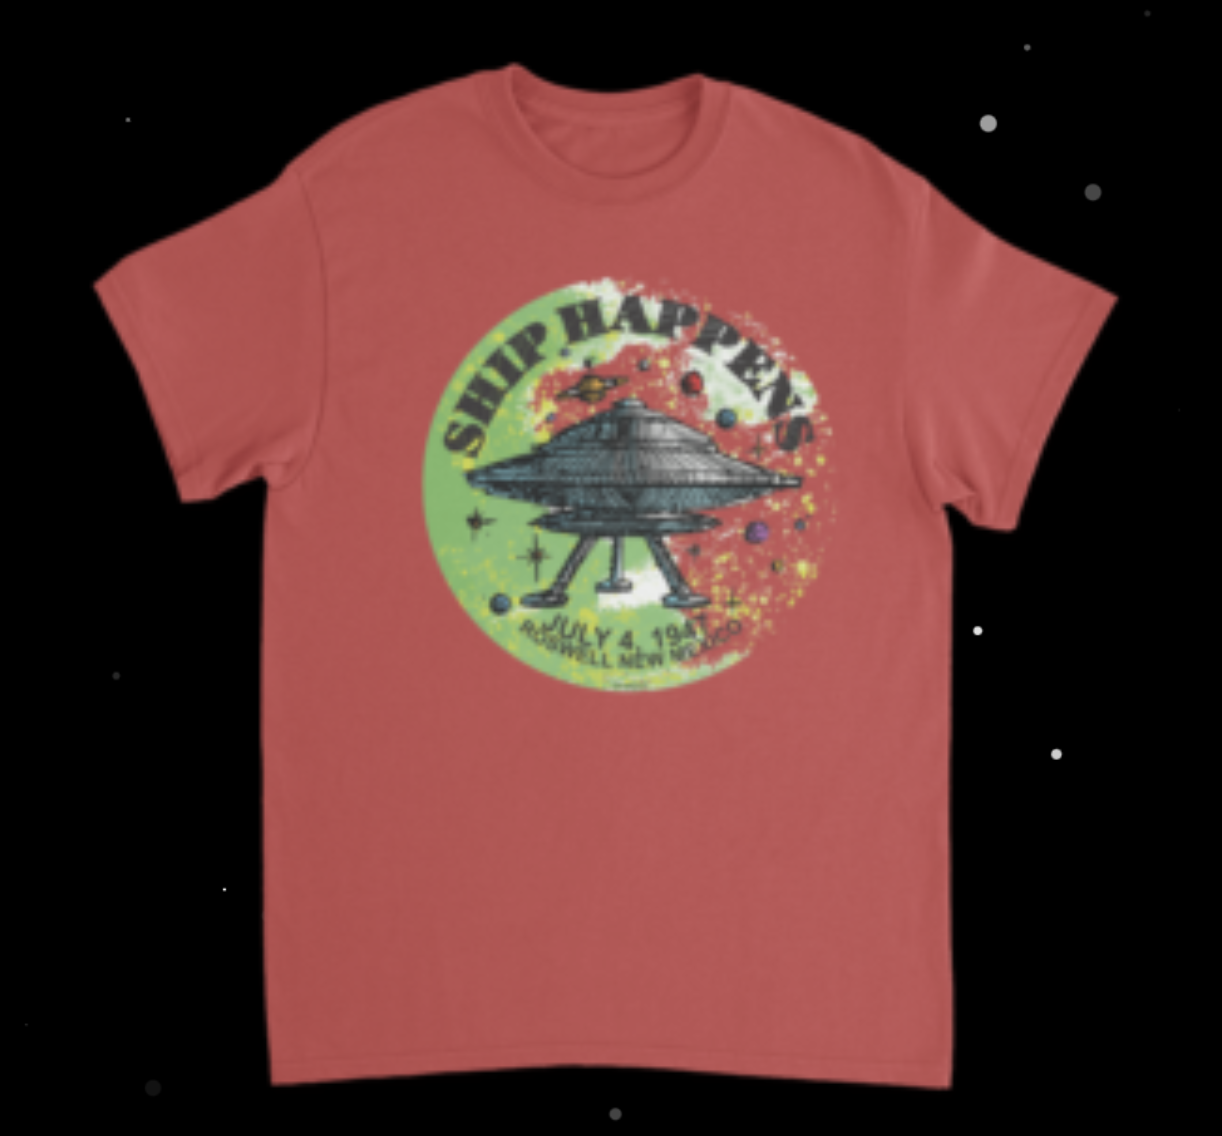
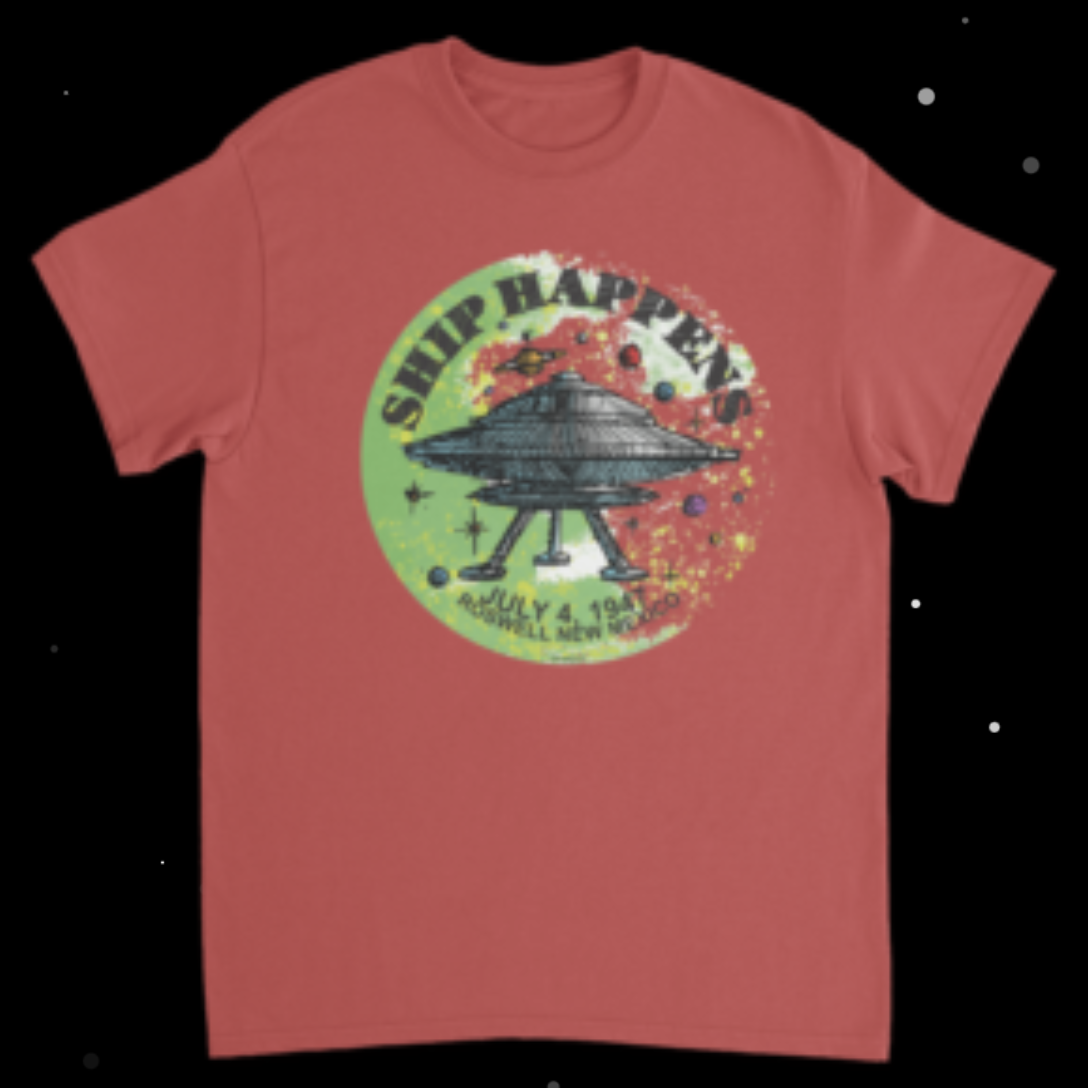
cropped the images to be same width and height

diff --git a/src/components/Card.jsx b/src/components/Card.jsx
@@ -6,7 +6,7 @@ function Card(props) {
     <Col className="col p-3 col-4" style={{ minWidth: "250px" }}>
       <div className="card p-3 text-center mb-5">
         <h2>{props.color} {props.design} {props.type}</h2>
-        <img src={props.imgURL} alt={props.type} style={{ width: '350px', height: '370px', margin: '0 auto' }} />
+        <img src={props.imgURL} alt={props.type} style={{ width: '90%', height: '90%', margin: '0 auto' }} />
         <p>{props.description}</p>
         <Button
           className="btn btn-warning"
